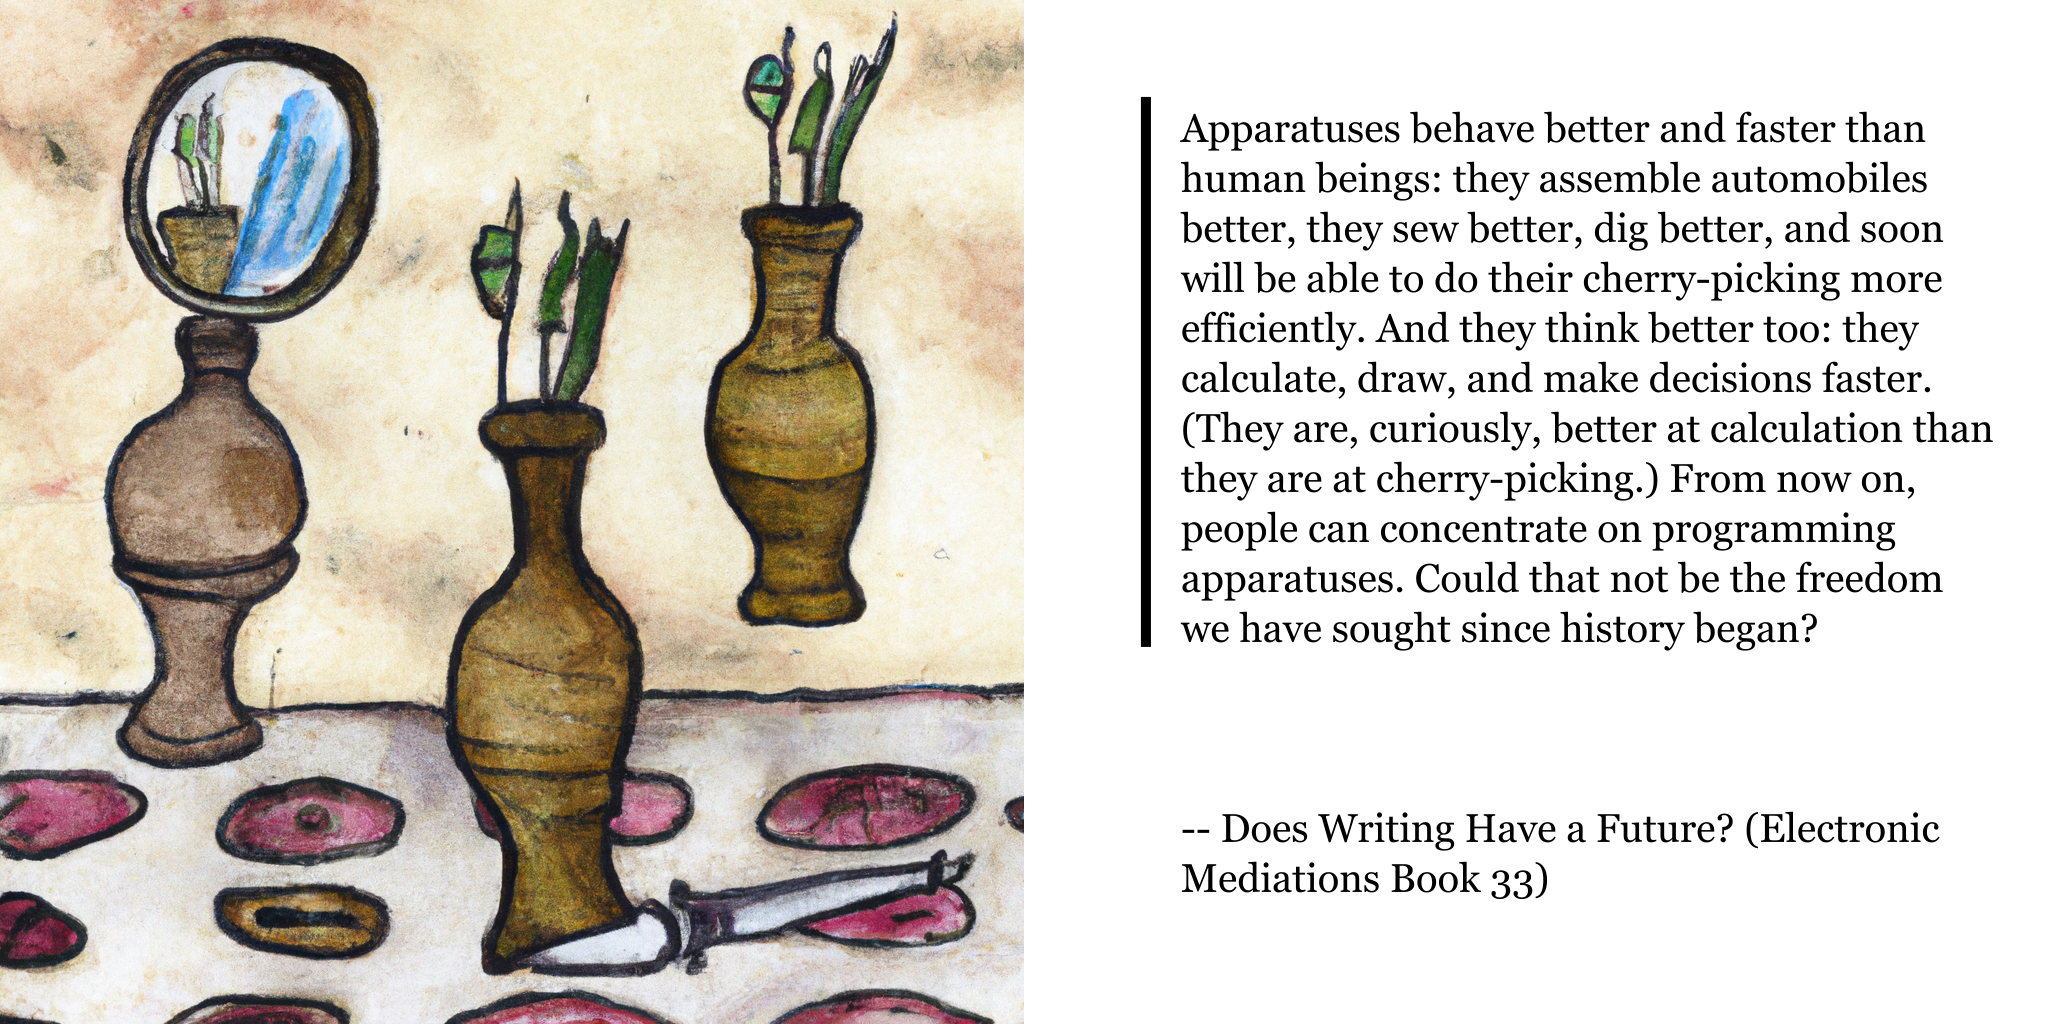
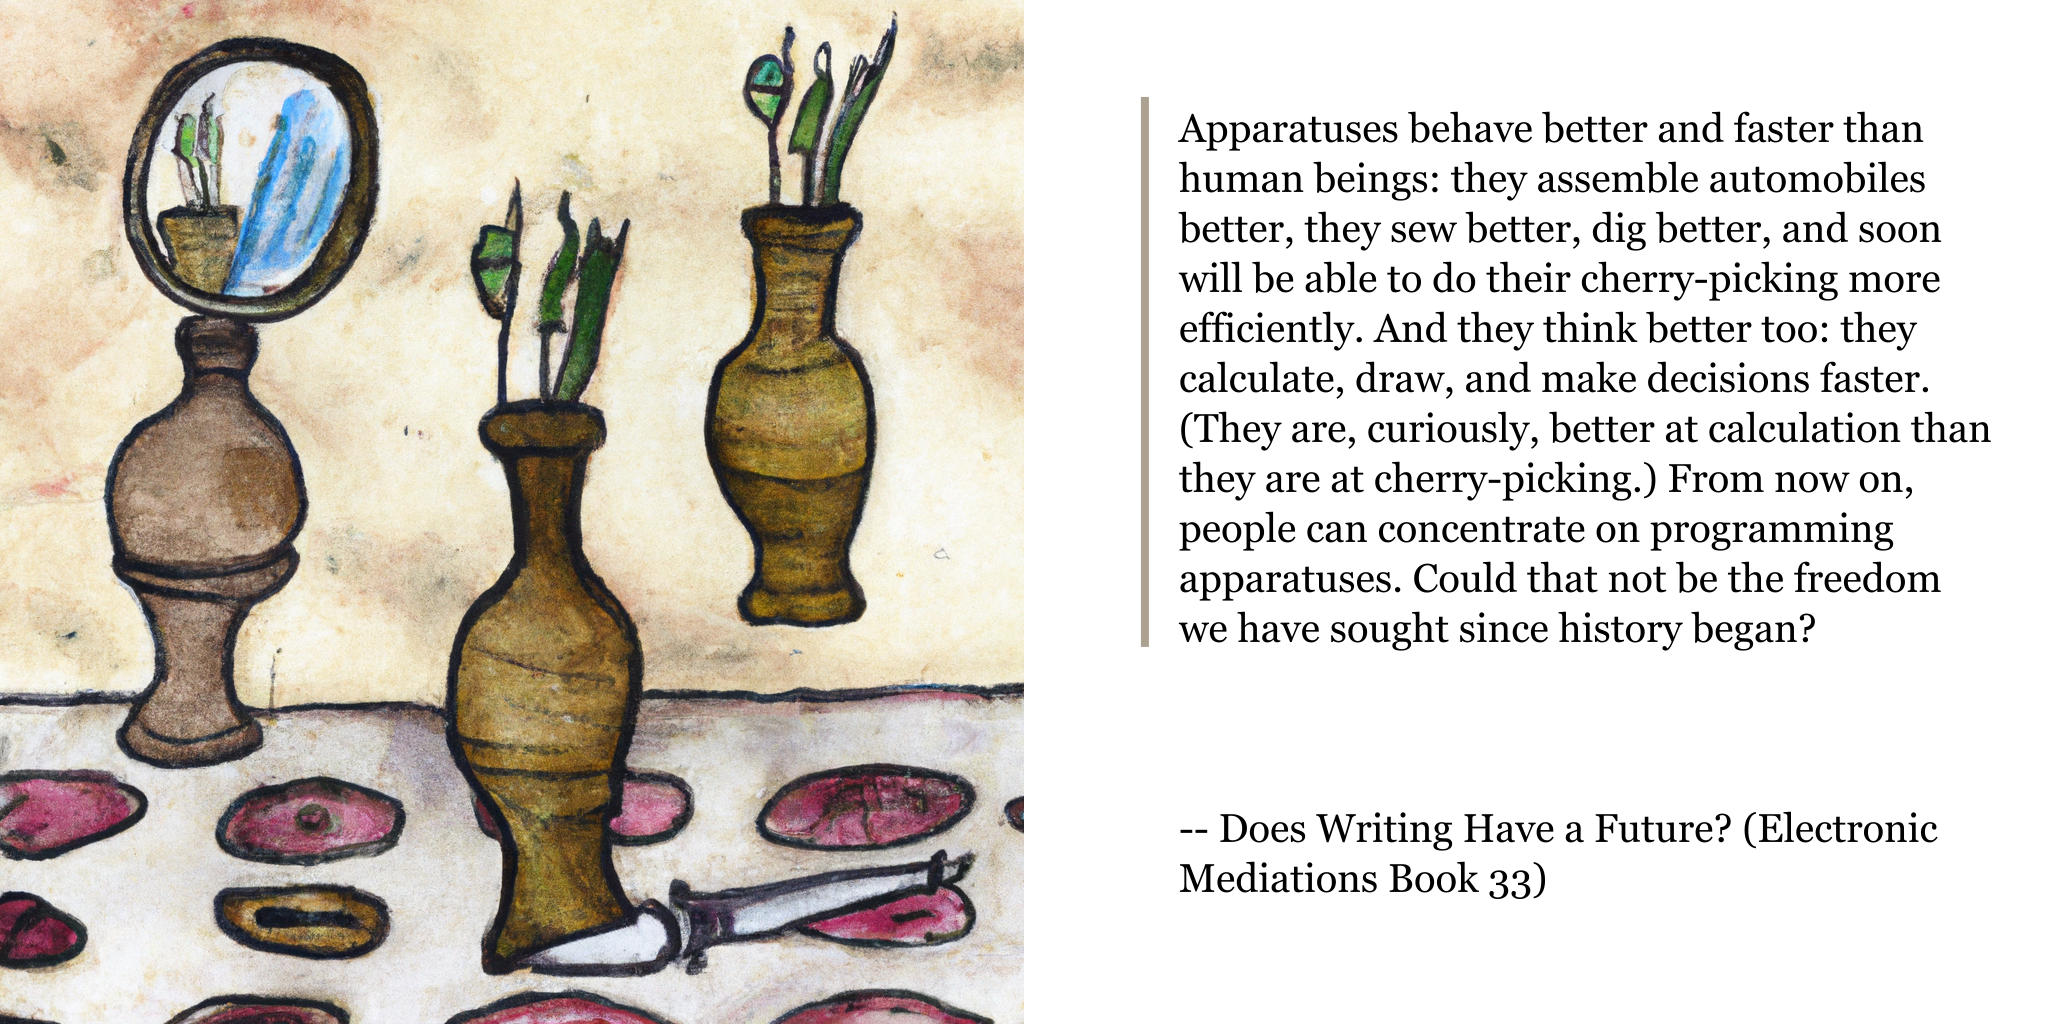
avg color

Changed region(s): [[0.5312, 0.0938, 0.9688, 0.625], [0.5625, 0.7812, 0.9375, 0.875]]

diff --git a/share-pic.js b/share-pic.js
@@ -212,15 +212,33 @@ async function overlayTextOnImage(imageUrl, text) {
     // Determine text color (black)
     ctx.fillStyle = "black";
 
+
     // // Draw each line of text on the right side of the canvas
     // for (let i = 0; i < lines.length; i++) {
     //   ctx.fillText(lines[i], textXStart, 20 + i * (fontSize + 10));
     // }
 
+     // Determine average color of the area where the rectangle will be placed
+     const imageData = ctx.getImageData(rectX, rectY, rectWidth, rectHeight);
+     let r = 0,
+       g = 0,
+       b = 0;
+     for (let i = 0; i < imageData.data.length; i += 4) {
+       r += imageData.data[i];
+       g += imageData.data[i + 1];
+       b += imageData.data[i + 2];
+     }
+     const pixelCount = imageData.data.length / 4;
+     r = Math.floor(r / pixelCount);
+     g = Math.floor(g / pixelCount);
+     b = Math.floor(b / pixelCount);
+ 
+     // make background color of rectangle average color
+     const backgroundColor = `rgb(${r}, ${g}, ${b})`;
     
     // Draw colored rectangle to the left of the text block
-    const rectangleWidth = 10; // Width of the colored rectangle
-    ctx.fillStyle = "black"; // Color of the rectangle
+    const rectangleWidth = 8; // Width of the colored rectangle
+    ctx.fillStyle = backgroundColor; // Color of the rectangle
     // find line that starts with --
     const citationLine = lines.find((line) => line.startsWith("--"));
     const citationIndex = lines.indexOf(citationLine);
